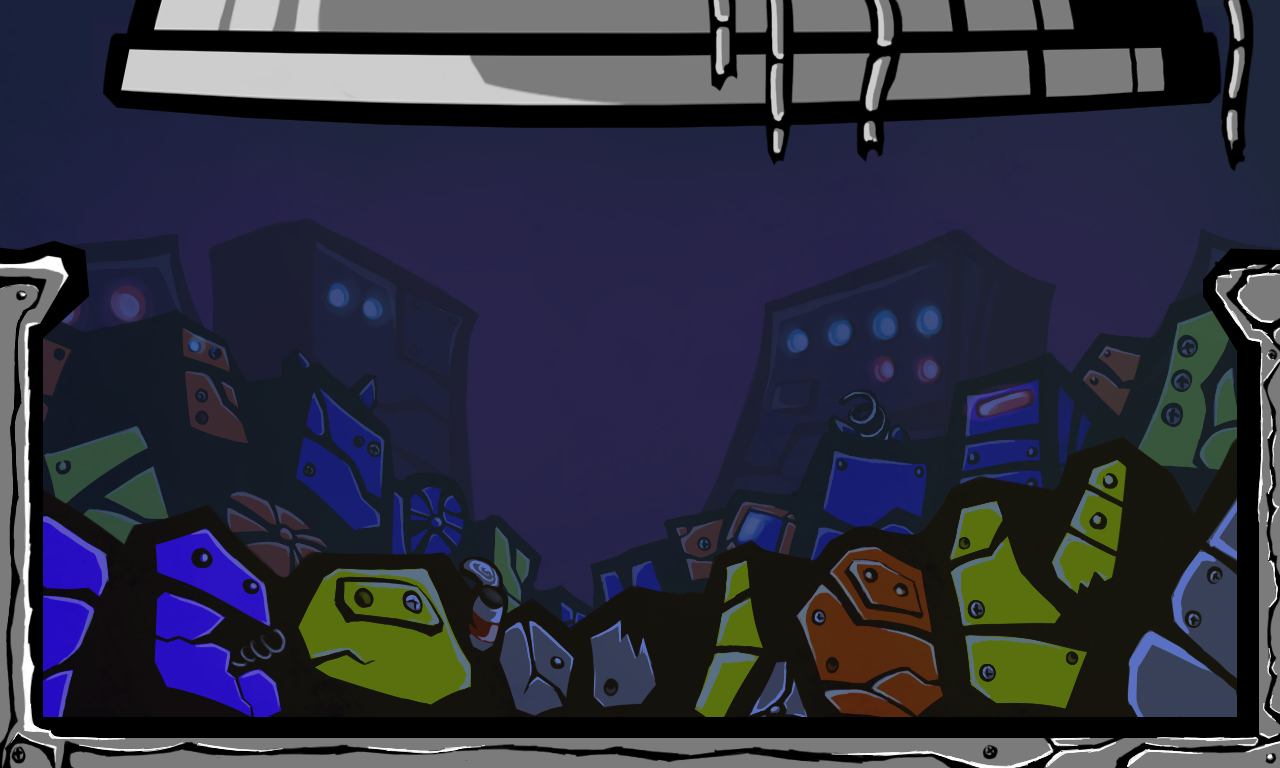
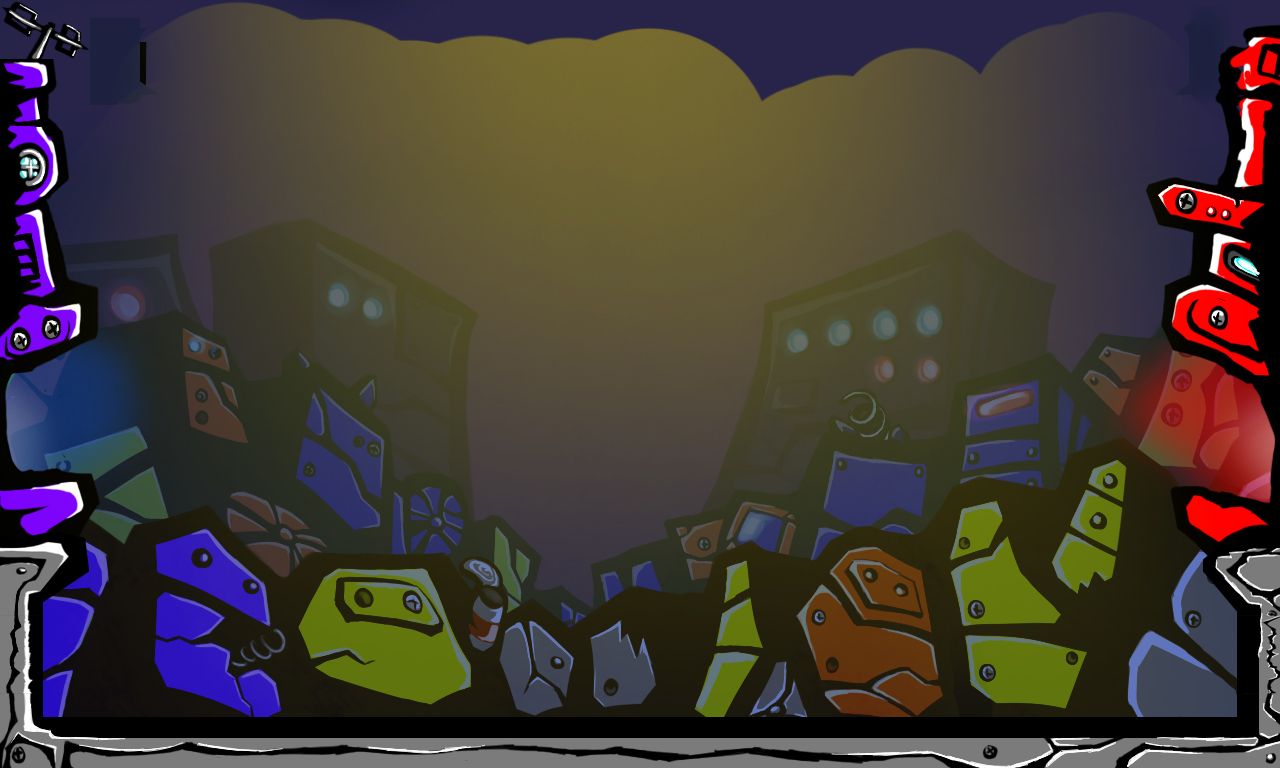
Signed-off-by: kafeier <791961143@qq.com>

diff --git a/Magnetic/src/GameLayer.js b/Magnetic/src/GameLayer.js
@@ -11,6 +11,7 @@ var KeyCode_Z = 90,
 
     BACK_ZORDER = 0,
     PLAYER_ZORDER = 10,
+    TUBE_ZORDER = 200;
     ITEM_ZORDER = 11;
 
 var GameLayer = cc.Layer.extend({
@@ -67,7 +68,13 @@ var GameLayer = cc.Layer.extend({
         back.x = cc.winSize.width/2;
         back.y = 0;
         back.anchorY = 0;
+
+        var tube = new cc.Sprite(res.Tube);
+        tube.x = cc.winSize.width / 2 - 5;
+        tube.y = cc.winSize.height - 185;
+        tube.anchorY = 0;
         this.addChild(back, BACK_ZORDER);
+        this.addChild(tube,TUBE_ZORDER);
     },
 
     createPhysicsWorld : function () {
@@ -163,6 +170,7 @@ var GameLayer = cc.Layer.extend({
 
         this.space.addCollisionHandler(Player.COL_TYPE, Item.COL_TYPE, null, this.playerTouchItem, null, null);
         this.space.addCollisionHandler(Player.COL_TYPE, Wall.COL_TYPE, null, this.playerHitGround, null, null);
+//        this.space.addCollisionHandler(Player.COL_TYPE, Bomb.EXPLODE_COL_TYPE, null, this.playerHitGround, null, null);
 
     },
     onExit : function () {
@@ -240,6 +248,9 @@ var GameLayer = cc.Layer.extend({
 //        console.log("ffffffff_hit ground");
 
         return true;
+    },
+    playerBeExplode : function (arb, space, ptr) {
+
     }
 
 });

diff --git a/Magnetic/src/Item.js b/Magnetic/src/Item.js
@@ -154,10 +154,20 @@ var Bomb = Item.extend({
         if (!this.isExplode && this.time < 0) {
             this.isExplode = true;
             bomb_armature = ccs.Armature.create("explode");
+
+            var origin = this.getPosition();
+
+            var explode_phyObj = new CircleObject(EXPLODE_WEIGHT, EXPLODE_RADIUS, this.maxSpeed, bomb_armature, origin);
+            explode_phyObj.setFriction(0);
+            explode_phyObj.setElasticity(100);
+//        var body = this.phyObj.body;
+//        body.setMoment(Infinity);
+            explode_phyObj.shape.setCollisionType(Bomb.EXPLODE_COL_TYPE);
+
             bomb_armature.scaleX = 2;
             bomb_armature.scaleY = 2;
             bomb_armature.getAnimation().playWithIndex(0);
-            bomb_armature.setPosition(this.getPosition());
+            bomb_armature.setPosition(origin);
             this.getParent().addChild(bomb_armature);
         }
 
@@ -181,6 +191,7 @@ var Bomb = Item.extend({
     }
 });
 
+Bomb.EXPLODE_COL_TYPE = 22;
 Bomb.create = function (file, type, x, y, sOrR) {
     var ret = null;
     if (cc.pool.hasObj(Bomb))

diff --git a/Magnetic/src/resource.js b/Magnetic/src/resource.js
@@ -1,5 +1,6 @@
 var res = {
     BackgroundA : "res/sceneA.jpg",
+    Tube : "res/tube.png",
     Robot_plist : "res/animation/robot/robot0.plist",
     Robot_png : "res/animation/robot/robot0.png",
     Robot_exportJSON : "res/animation/robot/robot.ExportJson",

diff --git a/Magnetic/src/GlobalValue.js b/Magnetic/src/GlobalValue.js
@@ -40,3 +40,5 @@ var PLAYER_ATTRACT_TOP_FORCE = cp.v(0, 2);
 
 //bomb
 var EXPLODE_TIME = 300;
+var EXPLODE_WEIGHT = 100;
+var EXPLODE_RADIUS = 100;
